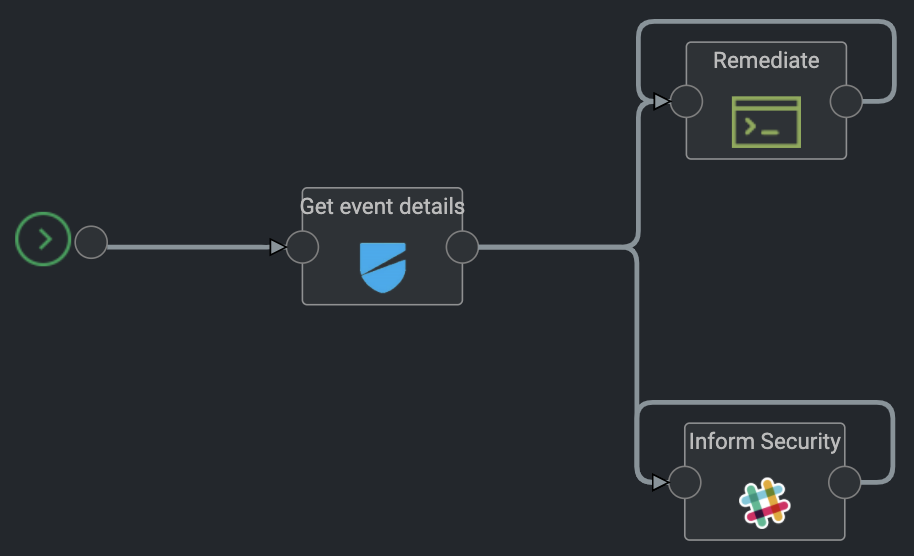
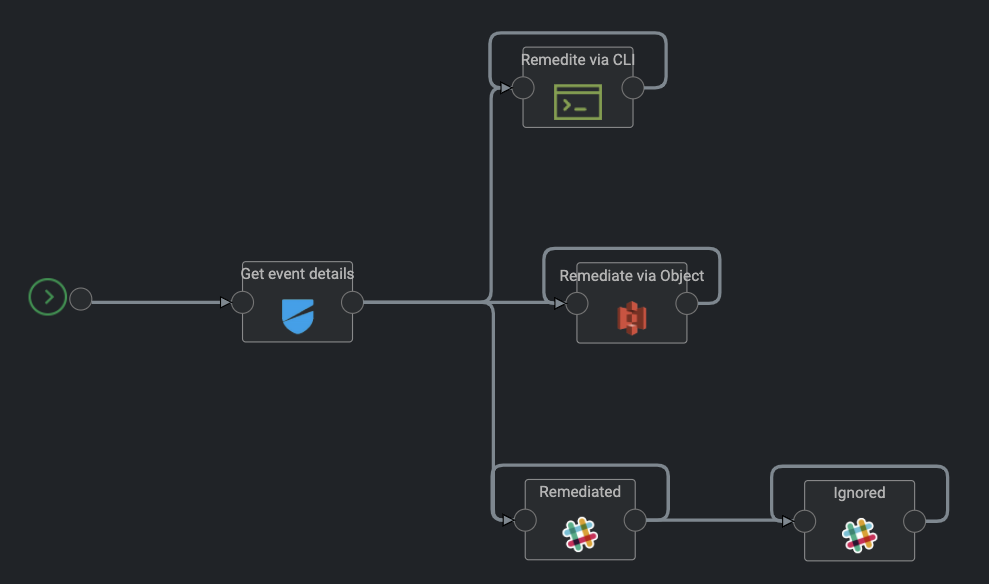
Updating LW_S3_1 and 2

Changed region(s): [[0.0, 0.0306, 0.9803, 0.9784], [0.7659, 0.1529, 0.919, 0.3058]]

diff --git a/maps/compliance/aws/LW_S3_1/README.md b/maps/compliance/aws/LW_S3_1/README.md
@@ -30,66 +30,63 @@ it
 8. Click 'Save' to remove the permission for ‘Everyone’
 9. Repeat steps 3-8 for every bucket for which you want to change permissions
 
-## How can i use this Map?
+## How can i use this Map for Auto Remediation?
 
-We recommend to create a Test S3 Bucket and configure it for Everyone READ permission, so you are generating an Alert inside Lacework during the next compliance check that you can use to test the Auto Remediation.
+We recommend to create an S3 test bucket and configure it to give everyone READ permission. This will generate an event and alert inside Lacework during the next compliance check. By default the compliance check is done once per day (every 24 hours). You can force to create a compliance check for CIS Benchmarks via the Lacework GUI or the API. Out of the compliance check an Event will be generated can then be used to test the Auto Remediation of this Map.
 
-You can use the following AWS CLI command to configure an existing S3 test bucket with everyone READ permission:
+You can use the following AWS CLI command to configure an existing S3 test bucket to give everyone READ permission:
 
 ```
 aws s3api put-bucket-acl --bucket <YOURBUCKETNAME> --acl public-read
 ```
-**Note:** Make sure you configure the <YOURBUCKETNAME> with the name of the S3 test bucket you would like to use for tests. Please don't use any S3 bucket with important data! This if for testing of the map only.
+
+**Note:** Make sure you configure the **YOURBUCKETNAME** with the name of the S3 test bucket you would like to use for tests. Don't use any S3 bucket with important data! This if for testing of this map only and it should not have any important data.
 
 ## Import the Map
 
-Inside your new created project (for example Lacework - AutoRemediation) you can Import the Map.
+The Map needs to be imported inside an existing or new Kaholo Project.
 
 ### Map Design and workflow
-The LW_S3_1 map currently looks like the following:
+The **LW_S3_1** map currently has the following map design:
 
-<img src="LW_S3_1.png" width="457" height="278">
+<img src="LW_S3_1.png" width="495" height="292">
 
-* It will start with "Get the Event Details" from the EventID send by the Webhook payload
-* It will print out all the S3 Buckets that will be remediated, which is a list of S3 Buckets from the Event minus the S3 buckets ignored inside the LaceworkConfig.bucketIgnoreList list.
-* It will remediate all the S3 Buckets back to no longer grant 'Everyone' READ permission.
-* It will send out a slack message to the Webhook you configured in Slack.
+* The map starts with **Get the Event details** object. It will use the **event_id** send by the [Webhook payload](https://support.lacework.com/hc/en-us/articles/360034367393-Webhook), using the **Lacework API Access Key** and  **Lacework Secret Key** from the Kaholo vault that you configured the Lacework Plugin with. to create a [temporary API token](https://support.lacework.com/hc/en-us/articles/360011403853-Generate-API-Access-Keys-and-Tokens). This token is used to query the Lacework API via the API call **/api/v1/external/events/GetEventDetails** of the configured Lacework instance. The return value of this API call is the complete Event Payload you can use within the Map.
+* The map will trigger the **Remediate via CLI** CommandLine object If you enabled the Auto Remediation via the CLI inside the LaceworkConfig of the map by using the **"dotheremediationviacli": "true"** setting. It will print out the name of the S3 buckets that will be remediated and uses the AWS CLI to remediate the S3 buckets.
+* The map will trigger the **Remediate via Object** Amazon-aws-s3 object if you enabled the Auto Remediation via the Object inside the LaceworkConfig of the map by using the **"dotheremediationviaobject": "true"** setting. it will remediate all S3 buckets by using the Method **apply canned ACL to Bucket** from the [S3 bucket plugin](https://github.com/Kaholo/kaholo-plugin-amazon-s3).
+* The map will send out a Slack message for each S3 bucket that will be remediated to the Webhook you configured for the **Remediated** Slack object.
+* If you enabled the configuration to send out slack messages for ignored S3 buckets inside the LaceworkConfig of the map to **"sendslackmessagesforignored": "true"** it will send out a slack message for each bucket that is violating the policy and ignored by the configuration to the Webhook you configured for the **Ignored** Slack object.
 
 ### Map trigger
 
-Make sure that the Map Trigger is configured with the following configuration:
+Make sure that the Map Webhook Trigger is configured with the following configuration:
 
-<img src="LW_S3_1_Trigger.png" width="395" height="791">
+<img src="LW_S3_1_Trigger.png" width="269" height="608">
 
-1. The Configuration needs to be configured with **LaceworkConfig**
-2. The Plugin needs to be configured with Lacework-Trigger
-3. The Method "Alert from Lacework" needs to be selected
+1. The Configuration needs to be configured with **LaceworkConfig** to make sure the Configuration LaceworkConfig is used when the map is triggered.
+2. The Plugin setting needs to be configured with the Lacework Webhook Plugin **kaholo-trigger-lacework**
+3. The Method **Lacework Alert** needs to be selected
 4. The Variable **Event type** needs to be configured with Value **Compliance**
-5. The Variable **Issue ID** needs to be configured with Value **LW_S3_1**.
+5. The Variable **Event ID** needs to be configured with Value **LW_S3_1**.
 6. The Variable **Event Severity** needs to be configured with the Value **Any** or **High**
 
-With that configuration you make sure that this Map is only triggered if within the payload of the Webhook an alarm related to LW_S3_1 Control ID is send.
+This configuration will make sure that this map is only triggered if the **event_description** of the [Webhook payload](https://support.lacework.com/hc/en-us/articles/360034367393-Webhook) includes the **LW_S3_1** Event ID.
 
 ### Configuration of the Map
 
-Make sure you configure the following configurations inside the LaceworkConfig:
-1. **eventuuid:** Please make sure that the UUID used here is the UUID of the "Get event details". Due to the reimport of the Map the UUID of the event object could have changed. For that you can go to the Design, open the "Get Events" building block.
+By default the map is using the **LaceworkConfig** configurations that are imported as part of the map.
 
-![Get Event](geteventdetails.png "Get Event")
-
-Inside the configuration of the Get Event building block you will find the UUID:
-
-<img src="geteventdetails2.png" width="287" height="229">
-
-2. **Note** By default the setting **dotheremediation** is configured to **false**, so it will not by accident start to remediate S3 buckets. We recommend to make sure that only the right buckets will be remediated and the map is working as expected before you configure this setting to true.
-
-3. (Optional). You can configure the Map to ignore specific S3 buckets from Auto Remediation. Make sure you configured the correct AWS S3 buckets that should be ignored within the bucketIgnoreList of the LaceworkConfig.
+By default the map has the following configurations:
 
 ```
 {
     "name": "LaceworkConfiguration",
+    "policyID": "LW_S3_1",
+    "violationdescription": "Ensure the S3 bucket ACL does not grant Everyone READ permission",
     "eventuuid": "1f34062d-2299-4417-ade7-69d3ce1e3c0a",
-    "dotheremediation": "false",
+    "dotheremediationviacli": "false",
+    "dotheremediationviaobject": "true",
+    "sendslackmessagesforignored": "true",
     "bucketIgnoreList":[
         "arn:aws:s3:::mybucket01",
         "arn:aws:s3:::mybucket02",
@@ -97,26 +94,34 @@ Inside the configuration of the Get Event building block you will find the UUID:
     ]
 }
 ```
+Make sure you configure the following configurations inside the **LaceworkConfig** Configuration of the map
 
-4. Make sure you select an Agent for the Map that has the AWS CLI installed and configured, so it can be used for the Auto Remediation steps.
+#### General Settings
 
-### Configuration of Slack Messages
+1. **eventuuid:** Make sure that the **UUID** used here is the UUID of the **Get event details** object inside the map. Due to the reimport of the Map the **UUID** of the event object could have changed. To check the UUID you can go to the Design of the map, open the **Get event details** building block.
 
-For the Slack building block you can configure a Slack Webhook Url that you have to implement inside the Kaholo Vault before you can select it.
+![Get Event](geteventdetails.png "Get Event")
 
-It will send out a slack message to the configured Webhook. We recommend to configure it similar to the Webhook you use within Lacework as alert channel.
+Inside the configuration of the **Get event details** building block you will find the **UUID**:
 
-If you don't have slack or don't need slack messages feel free to simply remove this building block.
+<img src="geteventdetails2.png" width="233" height="179">
 
-### Configuration of the Remediation block
+2. **bucketIgnoreList(Optional):** You can configure the Map to ignore specific S3 buckets from Auto Remediation. Make sure you configured the correct AWS S3 bucket names that should be ignored within the bucketIgnoreList of the LaceworkConfig.
 
-The Remediation block will only be triggered if the configuration dotheremediation of the LaceworkConfig is configured with true. Before enabling this we recommend the following:
+#### Auto Remediation
 
-1. Create a test S3 bucket that is violating the compliance rule for LW_S3_1
-2. Make sure that you put all the S3 buckets that should not be auto remediated into the bucketIgnoreList of the LaceworkConfig.
-3. To be even more sure we recommend to configure a suppression setting for the LW_S3_1 compliance check within the Lacework platform to ignore the S3 bucket. Otherwise the ignored Buckets will create additional Events and Alerts within Lacework.
+For the Auto Remediation you need to decide if you would like to Auto Remediate by using the AWS CLI or the Kaholo S3 Bucket Object.
 
-The Remediation block will Auto Remediate by using the following AWS CLI command that will put the ACL back into private mode, which means only the owner will be able to list and write on Objects and read and write on the Bucket ACL:
+The Auto Remediation is disabled if you import the map. It will only be triggered if the configuration **dotheremediationviacli** or **dotheremediationviaobject** of the LaceworkConfig is configured with **true**. Before enabling this we recommend the following:
+
+1. Create a test S3 bucket that is violating the compliance rule for **LW_S3_1** via the CLI command described in the section [How can i use the Map?](https://github.com/automatecloud/lacework-kaholo-autoremediation/tree/main/maps/compliance/aws/LW_S3_1#how-can-i-use-this-map-for-auto-remediation)
+2. When you got the Event created in Lacework you need to make sure that you put all the S3 bucket names that should not be Auto Remediated into the bucketIgnoreList of the LaceworkConfig.
+3. To be even more sure we recommend to configure a suppression setting for the **LW_S3_1** compliance check within the Lacework platform to ignore the S3 bucket. Otherwise the ignored Buckets will create additional Events and Alerts within Lacework. Future versions of this Map will enable the auto creation of AWS Tags.
+4. After that you can enable the Auto Remediation via CLI or via the Kaholo S3 Bucket Object.
+
+**Note:** you can choose to do the Auto Remediation via the CLI **"dotheremediationviacli": "true"** or by using the Kaholo S3 bucket object **"dotheremediationviaobject": "true"**. By default both settings are configured to **false**, so it will not by accident start to remediate misconfigured S3 buckets. We recommend to make sure that only the right buckets will be remediated and the map is working as expected before you configure any of both settings to true. Do not configure **dotheremediationviacli** and **dotheremediationviaobject** both at the same time to **true**. The map will check that possible misconfiguration at the beginning of the map and not execute. Only one of both can be enabled and used for the Auto Remediation.
+
+5. If you configure the **dotheremediationviacli** settings to **true** to enable the Auto Remediation via CLI, make sure you select an Agent for the Map that has the AWS CLI installed and configured. The Remediation via CLI block will Auto Remediate by using the following AWS CLI command that will put the ACL back into private mode, which means only the owner will be able to list and write on Objects and read and write on the Bucket ACL:
 
 ```
 aws s3api put-bucket-acl --bucket <YOURBUCKETNAME> --acl private
@@ -124,13 +129,30 @@ aws s3api put-bucket-acl --bucket <YOURBUCKETNAME> --acl private
 
 If you want to know more about the aws s3api put-bucket-acl command or want to replace it with a different option for auto remediation we recommend to take a look at the official documentation available [here](https://awscli.amazonaws.com/v2/documentation/api/latest/reference/s3api/put-bucket-acl.html).
 
+6. If you configure the **dotheremediationviacli** to **true** the Remediation via Object block will Auto Remediate by using the Kaholo S3 bucket plugin. For this you need to make sure that the **remediateviaobject** action has the correct configured AWS access key, AWS secret key and the correct AWS region. the S3 bucket name will be created by using the **remediateviaobject** function, and the Canned ACL Type is configured to **Private**
+
+#### Configuration of Slack Messages
+
+
+1. **policyID:** This shouldn't be changed. The Policy ID will be shown as part of the slack output messages.
+
+2. **violationdescription:** This setting is used to send details about the event inside the slack output message. Feel free to change it for your needs.
+
+3. For the Slack building blocks **Remediated** and **Ignored** you can configure a Slack Webhook URL that you have to implement inside the Kaholo Vault before you can select it.
+
+It will send out a slack message to the configured Webhook. We recommend to configure it similar to the Webhook you use within Lacework as an alert channel so you can see the Auto Remediation effect right after the alert was send by Lacework.
+
+If you don't have Slack or don't need Slack messages feel free to simply remove both Slack objects from your map.
+
+4. **sendslackmessagesforignored (Optional):** you can disable within the LaceworkConfig via **"sendslackmessagesforignored": "false"** to not send out Slack messages for S3 buckets that are violating the policy but are ignored via the **bucketIgnoreList**. By default this is configured to **true**. Reason behind is that it is best practice to suppress S3 buckets that should not be Auto Remediated by using Tags within AWS so you can configure a Suppress rule within Lacework to simply ignore them and not create events and alerts.
+
 ## Build an example curl webhook
 
-There is no need to wait for Lacework sending the Webhook Alert again if you plan to test it immediately. You can trigger the map by using a simple curl command that will send the necessary information.
+There is no need to wait for Lacework sending the Webhook Alert for the generated Event when you want to test the map. If you plan to test it immediately, you can trigger the map by using a simple curl command that will send the necessary information.
 
-Before you can trigger the webhook you need to have an event generated within your Lacework instance.
+Before you can trigger the webhook you need to have an event generated within your Lacework instance. Please make sure you run a compliance report right after you created a test S3 bucket that is violating this policy.
 
-As soon as you got an event we recommend using the Event Information to create an example webhook trigger inside your terminal using the following environment variables. Please make sure to update it with the information from the Event you did generate.#
+As soon as you got an event we recommend using the Event Information to create an example webhook trigger inside your terminal using the following environment variables. Make sure to update it with the information from the Event you did generate.#
 
 ```
 export EVENTTITLE="New Violations"
@@ -138,10 +160,10 @@ export EVENTTYPE=Compliance
 export EVENTTIMESTAMP="27 Jan 2021 16:00 GMT"
 export EVENTSOURCE=AWSCompliance
 export EVENTID=11
-export EVENTSEVERITY=2
+export EVENTSEVERITY=1
 export WEBHOOKURL=https://mykaholoinstance.kaholo.io/webhook/lacework/alert
 export LACEWORKINSTANCE=mylaceworkinstance
-export EVENTDESCRIPTION="AWS Account 112233445566 (lacework-test) : LW_S3_1 Ensure the S3 bucket ACL does not grant 'Everyone' READ permission [list S3 objects]"
+export EVENTDESCRIPTION="AWS Account 112233445566 (lacework-test) : LW_S3_1 Ensure the S3 bucket ACL does not grant Everyone READ permission [create, overwrite, and delete S3 objects]"
 ```
 You need to replace the following before you apply the environment variables:
 1. **EVENTID** with the EventID that was generated inside the Lacework environment.

diff --git a/maps/compliance/aws/LW_S3_2/README.md b/maps/compliance/aws/LW_S3_2/README.md
@@ -82,7 +82,7 @@ By default the map has the following configurations:
 {
     "name": "LaceworkConfiguration",
     "policyID": "LW_S3_2",
-    "violationdescription": "Ensure the S3 bucket ACL does not grant Everyone READ_ACP permission",
+    "violationdescription": "Ensure the S3 bucket ACL does not grant Everyone WRITE permission",
     "eventuuid": "84fd0632-7213-4017-a923-7e87a116fab0",
     "dotheremediationviacli": "false",
     "dotheremediationviaobject": "false",
